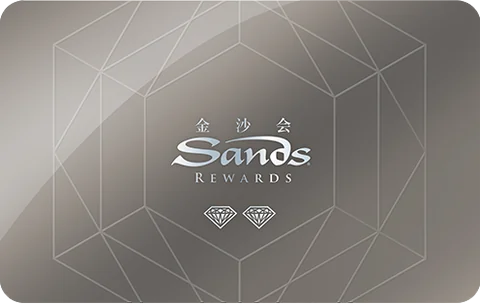
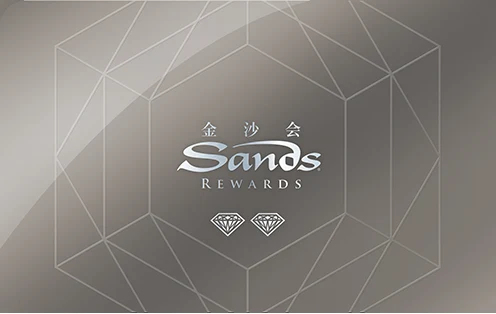
fix(blackjack): 按官网纠正贵宾档位与官方卡面
金沙会按官方 10 档拆成 7 档会员卡 + 御匾白金/钻石/主席 3 档贵宾卡；新濠皇会改为黄金/白金 80/钻石 2,800 + 红玺 18,000/龙玺/天皇邀请；至尊卡改为翡翠/黄金 5万/白金 15万/钻石 30万，钻石卡作为贵宾凭证。没有更高官方档位的场馆把最高厅 need 钳到最高档，不再出现进不去的房。金沙系列卡面重新从 assets.sandsresortsmacao.cn 下载并转 webp，贵宾卡优先用各公司官方卡面，会员卡统一称会员卡。

diff --git a/docs/blackjack.html b/docs/blackjack.html
@@ -1253,6 +1253,15 @@ const BJ = (() => {
   const CARD_NAMES = ['', '基础贵宾卡', '私人贵宾卡', '主席卡', '超级贵宾卡'];
   const CARD_NAMES_EN = ['', 'basic VIP card', 'private VIP card', 'Chairman card', 'Super VIP card'];
   const needName = n => n ? (EN ? CARD_NAMES_EN[n] : CARD_NAMES[n]) : '';
+  /* 房间提示优先用当前卡系的官方贵宾档名（如御匾主席卡 / 天皇卡 / 至尊钻石卡） */
+  function needLabel(n){
+    const t = ((PROGRAMS[curCasino().prog].vip || {}).tiers || []).find(x => (x.card || 1) === n);
+    return t ? t.name : needName(n);
+  }
+  /* 当前场馆最高厅的门槛：官方档位少时 rooms() 已把 need 钳到最高档 */
+  function maxRoomNeed(){
+    return Math.max(0, ...curCasino().rooms.map(roomNeed));
+  }
   function roomOpen(casinoIdx, roomIdx){
     if (cfg.unlock) return true;          // 体验模式：全部厅房开放，仅用于查看不同台规
     const c = CASINOS[casinoIdx];
@@ -1292,7 +1301,12 @@ const BJ = (() => {
     };
     return MEM[progId];
   }
-  const mem = () => memOf(curCasino().prog);
+  const mem = () => {
+    const m = memOf(curCasino().prog);
+    const maxCard = ((PROGRAMS[curCasino().prog].vip || {}).tiers || []).length || 4;
+    if (m.card > maxCard) m.card = maxCard;   // 官方档位减少时，旧档位向下归位
+    return m;
+  };
   function persistWallet(){
     if (!window.BJWallet) return;
     WALLET.venue = cfg.venue;
@@ -1682,7 +1696,7 @@ const BJ = (() => {
       if (t.pct == null) lines.push(`${t.next ? '下一档 ' + t.next + '：' : ''}${prog.tiersNote}`);
       else lines.push(`距${t.next}还差 ${t.need} 分（${prog.tiersNote}）`);
       lines.push(tierLadder(prog, ' · '));
-      lines.push(`贵宾厅：${m.card >= 1 ? '已持卡，可入场' : '需基础贵宾卡'} · 私人厅/主席厅：${m.card >= 2 ? `已持${needName(m.card)}，可入场` : '需私人贵宾卡'}`);
+      lines.push(`入场权限：${m.card >= maxRoomNeed() ? '本场全部厅房已开放' : '最高厅需' + needLabel(maxRoomNeed()) + '，尚未取得'} · 贵宾厅${m.card >= 1 ? '可进' : '锁定'}`);
       }
       el.ptsNote.textContent = lines.join('\n');
     }
@@ -1695,8 +1709,8 @@ const BJ = (() => {
           <div class="apply-top"><b>${EN ? 'Next: ' : '下一档：'}${cp.next}</b><span>${Math.round(cp.pct * 100)}%</span></div>
           <div class="apply-bars"><div><span>${EN ? 'Points' : '积分'}</span><i style="width:${(cp.pct * 100).toFixed(0)}%"></i><b>${Math.round(m.points).toLocaleString()} / ${(cp.needPts || 0).toLocaleString()}</b></div></div>
           <div class="room-rule">${EN
-            ? 'Mid-floor tiers upgrade automatically once points are reached.'
-            : '中场卡按积分自动升级，无需申请；贵宾卡需在下方「贵宾候选评估」提交申请。'}</div>`;
+            ? 'Membership tiers upgrade automatically once points are reached.'
+            : '会员卡按积分自动升级，无需申请；官方贵宾档（御匾 / 红玺 / 至尊钻石等）需在下方「贵宾候选评估」提交申请。'}</div>`;
       }
     }
   }
@@ -1714,7 +1728,7 @@ const BJ = (() => {
   };
   /* 官方图原始尺寸：写进 img 的 width/height，换档时高度不会塌成 0 */
   const ART_DIM = {
-    sands: [480, 304],
+    sands: [496, 314],
     sjm: [620, 395],
     melco: [360, 560],
     galaxy: [720, 480],
@@ -1729,7 +1743,15 @@ const BJ = (() => {
     if (!list || idx < 0 || idx >= list.length) return null;
     return 'assets/cards/' + list[idx] + '.webp';
   }
-  function vipArtOf(card){
+  /* 贵宾卡：优先用各公司官方卡面；没有官方图的用 AI 卡面 */
+  const VIP_ART = {
+    sands: ['sands_apex', 'sands_apex', 'sands_apex'],       // 御匾白金/钻石/主席共用官方御匾卡面
+    melco: ['melco_ruby', 'melco_dragon', 'melco_emperor'], // 红玺 / 龙玺 / 天皇
+    sjm: ['sjm_diamond']                                     // 至尊钻石
+  };
+  function vipArtOf(progId, card){
+    const list = VIP_ART[progId];
+    if (list && card >= 1 && card <= list.length) return 'assets/cards/' + list[card - 1] + '.webp';
     return card >= 1 && card <= 4 ? 'assets/cards/vip' + card + '.webp' : null;
   }
   /* 进场时把本卡系的官方图全部预载，升档换图时不用等网络，也就不会出现空白窗口 */
@@ -1742,6 +1764,11 @@ const BJ = (() => {
         ART_PRELOADED[progId] = 1;
         list.forEach(n => { const im = new Image(); im.src = 'assets/cards/' + n + '.webp'; });
       }
+    }
+    const vlist = VIP_ART[progId];
+    if (vlist && !ART_PRELOADED['vip-' + progId]){
+      ART_PRELOADED['vip-' + progId] = 1;
+      vlist.forEach(n => { const im = new Image(); im.src = 'assets/cards/' + n + '.webp'; });
     }
     if (!ART_PRELOADED.__vip){
       ART_PRELOADED.__vip = 1;
@@ -1769,8 +1796,8 @@ const BJ = (() => {
       pipsTotal = (vip.tiers || []).length || 4;
       pipsOn = m.card;
       note = EN
-        ? `VIP card held — every room up to this level is open. Mid-floor card (${T(t.tier)}) is tracked separately.`
-        : `贵宾卡已持有，该档及以下厅房全部开放；中场卡（${t.tier}）另行累计。`;
+        ? `VIP card held — every room up to this level is open. Membership card (${T(t.tier)}) is tracked separately.`
+        : `贵宾卡已持有，该档及以下厅房全部开放；会员卡（${t.tier}）另行累计。`;
     } else {
       /* 卡面配色按各场官方档位语义映射：金 / 红宝 / 钻石 / 白金 / 御匾 / 翡翠 */
       const SKIN = {
@@ -1783,7 +1810,7 @@ const BJ = (() => {
       };
       const skin = (SKIN[v.prog] || [])[t.idx];
       cls = 'm' + (skin || Math.min(11, t.idx + 1));
-      typeLabel = EN ? 'Mid-floor card' : '中场卡';
+      typeLabel = EN ? 'Membership card' : '会员卡';
       tierName = T(t.tier);
       sub = prog.brand;
       pipsTotal = Math.min(10, (prog.tiers || []).length);
@@ -1791,8 +1818,8 @@ const BJ = (() => {
       note = t.next
         ? (EN ? `${fmt(t.need)} pts to ${T(t.next)} · VIP rooms need a separate VIP card`
               : `距${t.next}还差 ${t.need} 分 · 贵宾厅需另申请贵宾卡`)
-        : (EN ? 'Top mid-floor tier · VIP rooms need a separate VIP card'
-              : '中场卡已到顶 · 贵宾厅需另申请贵宾卡');
+        : (EN ? 'Top membership tier · official VIP tiers need a separate application'
+              : '会员卡已到顶 · 官方贵宾档需另行申请');
     }
 
     const pips = Array.from({ length: pipsTotal }, (_, i) =>
@@ -1822,8 +1849,8 @@ const BJ = (() => {
       if (el.mcHint) el.mcHint.textContent = EN ? 'Drawn face' : '自绘卡面';
     };
 
-    const art = (m.card >= 1 ? vipArtOf(m.card) : cardArtOf(v.prog, t.idx));
-    const artKind = (m.card >= 1 || ART_GEN.has(v.prog)) ? 'gen' : 'official';
+    const art = (m.card >= 1 ? vipArtOf(v.prog, m.card) : cardArtOf(v.prog, t.idx));
+    const artKind = (m.card >= 1 ? !!VIP_ART[v.prog] : !ART_GEN.has(v.prog)) ? 'official' : 'gen';
     const hintFor = () => artKind === 'gen'
       ? (EN ? 'AI card art' : 'AI 卡面')
       : (EN ? 'Official card art' : '官方卡面');
@@ -1837,8 +1864,8 @@ const BJ = (() => {
         if (capP) capP.innerHTML = pips;
         if (el.mcHint) el.mcHint.textContent = hintFor();
       } else {
-        const dim = ART_DIM[m.card >= 1 ? 'vip' : v.prog] || [720, 454];
-        el.mcCard.className = 'mcard art' + (v.prog === 'melco' && m.card < 1 ? ' portrait' : '');
+        const dim = ART_DIM[m.card >= 1 ? (VIP_ART[v.prog] ? v.prog : 'vip') : v.prog] || [720, 454];
+        el.mcCard.className = 'mcard art' + (v.prog === 'melco' ? ' portrait' : '');
         el.mcCard.dataset.art = art;
         el.mcCard.innerHTML =
           `<img class="mc-art" src="${art}" width="${dim[0]}" height="${dim[1]}"
@@ -1872,18 +1899,22 @@ const BJ = (() => {
     }, vip);
 
     el.vipName.textContent = vip.name;
-    const badge = m.card ? (EN ? `Held · ${needName(m.card)}` : `已持卡 · ${needName(m.card)}`)
-      : (EN ? ['Not qualified yet', 'Qualified · basic pool', 'Qualified · top pool']
-            : ['暂不达标', '已达门槛 · 基础候选', '已达门槛 · 顶层候选'])[res.metLevel];
+    const heldTier = (vip.tiers || []).find(t => (t.card || 1) === m.card) || vip.tiers[0];
+    const heldName = heldTier ? heldTier.name : needName(m.card);
+    const badgeTexts = EN
+      ? ['Not qualified yet', 'Qualified · tier 1', 'Qualified · tier 2', 'Qualified · top tier', 'Qualified · super tier']
+      : ['暂不达标', '已达门槛 · 基础候选', '已达门槛 · 进阶候选', '已达门槛 · 顶层候选', '已达门槛 · 超级候选'];
+    const badge = m.card ? (EN ? `Held · ${heldName}` : `已持卡 · ${heldName}`)
+      : badgeTexts[Math.min(res.metLevel, 4)];
     el.vipStatus.innerHTML = `<span class="vip-badge lv${res.metLevel}">${badge}</span>
       <span class="vip-hint">${
         EN
-          ? (m.card ? `VIP card held (${needName(m.card)}) — rooms at that level stay open`
+          ? (m.card ? `VIP card held (${heldName}) — rooms at that level stay open`
               : res.metLevel === 0 ? 'Below all VIP thresholds — keep building turnover, max bet and visit days'
-              : `All three thresholds met${res.metLevel === 2 ? ' (top tier)' : ''}; submit the application below to have the card issued${res.burst ? '; turnover is concentrated in a short window, so review may take longer' : ''}`)
-          : (m.card ? `已持${needName(m.card)}，对应厅房长期开放`
+              : `All three thresholds met${res.metLevel >= 2 ? ' (top tier)' : ''}; submit the application below to have the card issued${res.burst ? '; turnover is concentrated in a short window, so review may take longer' : ''}`)
+          : (m.card ? `已持${heldName}，对应厅房长期开放`
               : res.metLevel === 0 ? '三维门槛未达，继续积累有效投注 / 单次最大投注 / 到访天数'
-              : `三项门槛已达${res.metLevel === 2 ? '（顶层）' : ''}，在下方提交申请即可获批发卡${res.burst ? '；流水集中在短期，人工复核会更慢' : ''}`)
+              : `三项门槛已达${res.metLevel >= 2 ? '（高层）' : ''}，在下方提交申请即可获批发卡${res.burst ? '；流水集中在短期，人工复核会更慢' : ''}`)
       }</span>`;
 
     /* 已获批的卡：一旦到手就保留，不随换台或后续投注不足而收回 */
@@ -1930,11 +1961,11 @@ const BJ = (() => {
       : `稳定性正常（连续 7 局窗口占 ${(res.share * 100).toFixed(0)}%）`);
     const tierNow = CORE.tierOf(m.points, prog);
     parts.push(EN
-      ? `Mid-floor card: ${prog.name} ${tierNow.tier} (separate system from VIP cards)`
-      : `中场卡：${prog.name} ${tierNow.tier}（与贵宾卡是两套体系）`);
+      ? `Membership card: ${prog.name} ${tierNow.tier} (mass tiers; official VIP tiers are separate)`
+      : `会员卡：${prog.name} ${tierNow.tier}（大众档位；官方高档次御匾/红玺/至尊钻石等另列贵宾卡）`);
     parts.push(EN
-      ? `Access: VIP room ${m.card >= 1 ? 'open' : 'locked'} · private/chairman room ${m.card >= 2 ? 'open' : 'locked'}. Cards are issued only after you apply with qualifying play`
-      : `入场权限：贵宾厅${m.card >= 1 ? '可进' : '锁定'} · 私人厅/主席厅${m.card >= 2 ? '可进' : '锁定'}；${vip.note ? vip.note + '；' : ''}贵宾卡需三维达标后主动申请获批，不随选厅直接发放`);
+      ? `Access: VIP room ${m.card >= 1 ? 'open' : 'locked'} · highest room here (${needLabel(maxRoomNeed())}) ${m.card >= maxRoomNeed() ? 'open' : 'locked'}. Cards are issued only after you apply with qualifying play`
+      : `入场权限：贵宾厅${m.card >= 1 ? '可进' : '锁定'} · 本场最高厅（${needLabel(maxRoomNeed())}）${m.card >= maxRoomNeed() ? '可进' : '锁定'}；${vip.note ? vip.note + '；' : ''}贵宾卡需三维达标后主动申请获批，不随选厅直接发放`);
     parts.push(EN ? 'Card status is simulated; real eligibility is decided on the casino floor' : '卡为模拟状态，真实资格仍由赌场现场核定');
     el.vipNote.textContent = parts.join(' · ');
 
@@ -3173,7 +3204,7 @@ Scope: side bets excluded; splits and doubles settled OBBO.`
       const locked = !open[i];
       const mark = need
         ? (cfg.unlock ? (EN ? ' (demo unlocked)' : '（体验解锁）')
-          : (EN ? (locked ? ` (requires ${needName(need)})` : ' (card held)') : (locked ? `（需${needName(need)}）` : '（持卡可进）')))
+          : (EN ? (locked ? ` (requires ${needLabel(need)})` : ' (card held)') : (locked ? `（需${needLabel(need)}）` : '（持卡可进）')))
         : '';
       return `<option value="${i}"${locked ? ' disabled' : ''}>${r.name} · ${fmt(r.min)}–${fmt(r.max)}${mark}</option>`;
     }).join('');
@@ -3191,8 +3222,8 @@ Scope: side bets excluded; splits and doubles settled OBBO.`
       el.cfgRoom.value = String(cfg.room);
       updateRoomSelect();
       flash(EN
-        ? `<b>${c.name} · ${r.name}</b> requires the <b>${needName(roomNeed(r))}</b>; you do not hold it. Build turnover on this programme's main floor to earn the card first.`
-        : `<b>${c.name} · ${r.name}</b> 需持<b>${needName(roomNeed(r))}</b>才能入场；你目前没有这张卡。先在该卡系的中场积累并取得贵宾卡。`);
+        ? `<b>${c.name} · ${r.name}</b> requires the <b>${needLabel(roomNeed(r))}</b>; you do not hold it. Build turnover on this programme's main floor to earn the card first.`
+        : `<b>${c.name} · ${r.name}</b> 需持<b>${needLabel(roomNeed(r))}</b>才能入场；你目前没有这张卡。先在该卡系的中场积累并取得贵宾卡。`);
       return;
     }
     cfg.venue = venueIdx;

diff --git a/docs/assets/bj-casinos.js b/docs/assets/bj-casinos.js
@@ -127,30 +127,35 @@
   }
 
   function rooms(casino, group, list, notes) {
-    return list.map(k => mkRoom(casino, group, k, { note: (notes && notes[k]) || '' }));
+    const vipTiers = (programs[group] && programs[group].vip && programs[group].vip.tiers) || null;
+    const maxCard = vipTiers ? vipTiers.length : 4;
+    return list.map(k => {
+      const r = mkRoom(casino, group, k, { note: (notes && notes[k]) || '' });
+      /* 官方卡系没有更高的贵宾档时，最高档卡直接开到该场最高厅，避免出现永远进不去的房 */
+      if (r.need > maxCard) r.need = maxCard;
+      return r;
+    });
   }
 
   /* ---------------- 会员体系（档位取自各场官方会籍页） ---------------- */
   const programs = {
     sands: {
       name: '金沙会', brand: 'Sands Rewards', mopPerPoint: 5000,
-      conversion: '官方档位：金卡 → 红宝卡 Ⅰ/Ⅱ/Ⅲ → 钻石卡 Ⅰ/Ⅱ/Ⅲ → 御匾白金/钻石/主席卡；积分约 5,000 MOP = 1 分',
+      conversion: '官方 10 档：金卡 / 红宝卡Ⅰ-Ⅲ / 钻石卡Ⅰ-Ⅲ / 御匾白金·钻石·主席卡；后三档为贵宾卡。积分门槛官方未公布，红宝/钻石为模拟估算（约 5,000 MOP = 1 分）',
       tiers: [
         ['金卡', 0],
         ['红宝卡Ⅰ', 888], ['红宝卡Ⅱ', 2888], ['红宝卡Ⅲ', 6888],
-        ['钻石卡Ⅰ', 8888], ['钻石卡Ⅱ', 18888], ['钻石卡Ⅲ', 38888],
-        ['御匾白金卡', 88888], ['御匾钻石卡', 188888], ['御匾主席卡', 388888]
+        ['钻石卡Ⅰ', 8888], ['钻石卡Ⅱ', 18888], ['钻石卡Ⅲ', 38888]
       ],
-      tiersNote: '档位名称取自金沙会官方权益页；除公开档位序列外，升级积分为线性模拟值',
-      tiersKnown: true,
+      tiersNote: '档位名称取自金沙会官方权益页；御匾三档归入贵宾卡体系，不重复计入会员卡',
+      tiersKnown: false,
       vip: {
-        name: 'Paiza',
-        note: '中场积分与 Paiza 贵宾厅是两套体系',
+        name: '御匾会（Paiza）',
+        note: '御匾白金 / 钻石 / 主席卡就是金沙会官方 10 档的贵宾档，凭卡进入 Paiza 厅；审批准入门槛为模拟值（官方未公布）',
         tiers: [
-          { name: 'Paiza Platinum（基础贵宾）', card: 1, turnover: 12000000, maxBet: 20000, days: 12 },
-          { name: 'Paiza Private（私人厅）', card: 2, turnover: 30000000, maxBet: 50000, days: 18 },
-          { name: 'Paiza Chairman（主席厅）', card: 3, turnover: 70000000, maxBet: 120000, days: 26 },
-          { name: 'Paiza Sovereign（御匾 · 超级贵宾）', card: 4, turnover: 160000000, maxBet: 300000, days: 34, top: true }
+          { name: '御匾白金卡', card: 1, turnover: 12000000, maxBet: 20000, days: 12 },
+          { name: '御匾钻石卡', card: 2, turnover: 30000000, maxBet: 50000, days: 18 },
+          { name: '御匾主席卡', card: 3, turnover: 70000000, maxBet: 120000, days: 26, top: true }
         ]
       }
     },
@@ -173,18 +178,21 @@
     },
     melco: {
       name: '新濠皇会', brand: 'Melco Club', mopPerPoint: 400,
-      conversion: '官方：白金 +80 分、钻石 +2,800 分、红玺 +18,000 分；21 点约 400 MOP = 1 分',
-      tiers: [['黄金卡', 0], ['白金卡', 80], ['钻石卡', 2880], ['红玺卡', 20880], ['龙玺卡', 80000], ['天皇卡', 200000]],
-      tiersNote: '黄金卡免费登记；白金/钻石/红玺为官方门槛；龙玺、天皇为邀请制，此处按线性积分模拟',
+      conversion: '官方：白金 +80 分、钻石 +2,800 分、红玺 +18,000 分；龙玺/天皇仅限邀请。21 点约 400 MOP = 1 分',
+      tiers: [
+        ['黄金卡', 0],
+        ['白金卡', 80],
+        ['钻石卡', 2800]
+      ],
+      tiersNote: '黄金卡免费登记；白金/钻石为官方积分门槛；红玺、龙玺、天皇归入贵宾卡体系',
       tiersKnown: true,
       vip: {
-        name: '皇玺会',
-        note: '21 点贵宾归属皇玺会，与新濠皇会中场积分相互独立',
+        name: '皇玺会（红玺 / 龙玺 / 天皇）',
+        note: '红玺 18,000 分起（约 720 万投注换算），龙玺与天皇仅限邀请；皇玺专区、私人博彩区凭卡进入',
         tiers: [
-          { name: '皇玺会（基础贵宾）', card: 1, turnover: 10000000, maxBet: 15000, days: 10 },
-          { name: '皇玺会私享（私人厅）', card: 2, turnover: 28000000, maxBet: 48000, days: 18 },
-          { name: '皇玺会主席（主席厅）', card: 3, turnover: 65000000, maxBet: 115000, days: 26 },
-          { name: '皇玺会臻尊（超级贵宾）', card: 4, turnover: 155000000, maxBet: 290000, days: 34, top: true }
+          { name: '红玺卡', card: 1, turnover: 7200000, maxBet: 15000, days: 10 },
+          { name: '龙玺卡（邀请）', card: 2, turnover: 40000000, maxBet: 60000, days: 20 },
+          { name: '天皇卡（邀请）', card: 3, turnover: 80000000, maxBet: 150000, days: 30, top: true }
         ]
       }
     },
@@ -223,18 +231,16 @@
       }
     },
     sjm: {
-      name: '澳娱综合至尊卡', brand: 'SJM Supreme Card', mopPerPoint: 1000,
-      conversion: '官方按过去 12 个月累计净消费计级：翡翠免费 / 黄金 5 万 / 白金 15 万 / 钻石 30 万 MOP；此处 1 分 = 1,000 MOP',
-      tiers: [['翡翠', 0], ['黄金', 50], ['白金', 150], ['钻石', 300]],
-      tiersNote: '门槛为官方累计净消费额（MOP 50,000 / 150,000 / 300,000）折算',
+      name: '澳娱综合至尊卡', brand: 'SJM Supreme Card', mopPerPoint: 1,
+      conversion: '官方按过去 12 个月指定商户净消费计级：翡翠免费 / 黄金 5 万 / 白金 15 万 / 钻石 30 万 MOP；模拟以有效投注 1:1 近似',
+      tiers: [['翡翠', 0], ['黄金', 50000], ['白金', 150000], ['钻石', 300000]],
+      tiersNote: '门槛为官方累计净消费额（MOP）；模拟用有效投注近似消费额',
       tiersKnown: true,
       vip: {
-        name: '至尊贵宾',
+        name: '至尊钻石贵宾',
+        note: '至尊卡最高档钻石卡即贵宾凭证，凭卡进入贵宾厅与包厅；准入按投注模拟（官方仅公布消费级）',
         tiers: [
-          { name: '至尊贵宾（基础）', card: 1, turnover: 8000000, maxBet: 10000, days: 8 },
-          { name: '至尊私人（私人厅）', card: 2, turnover: 22000000, maxBet: 40000, days: 16 },
-          { name: '至尊主席（主席厅）', card: 3, turnover: 55000000, maxBet: 100000, days: 24 },
-          { name: '至尊御尊（超级贵宾）', card: 4, turnover: 140000000, maxBet: 260000, days: 32, top: true }
+          { name: '至尊钻石卡', card: 1, turnover: 8000000, maxBet: 30000, days: 18, top: true }
         ]
       }
     }
